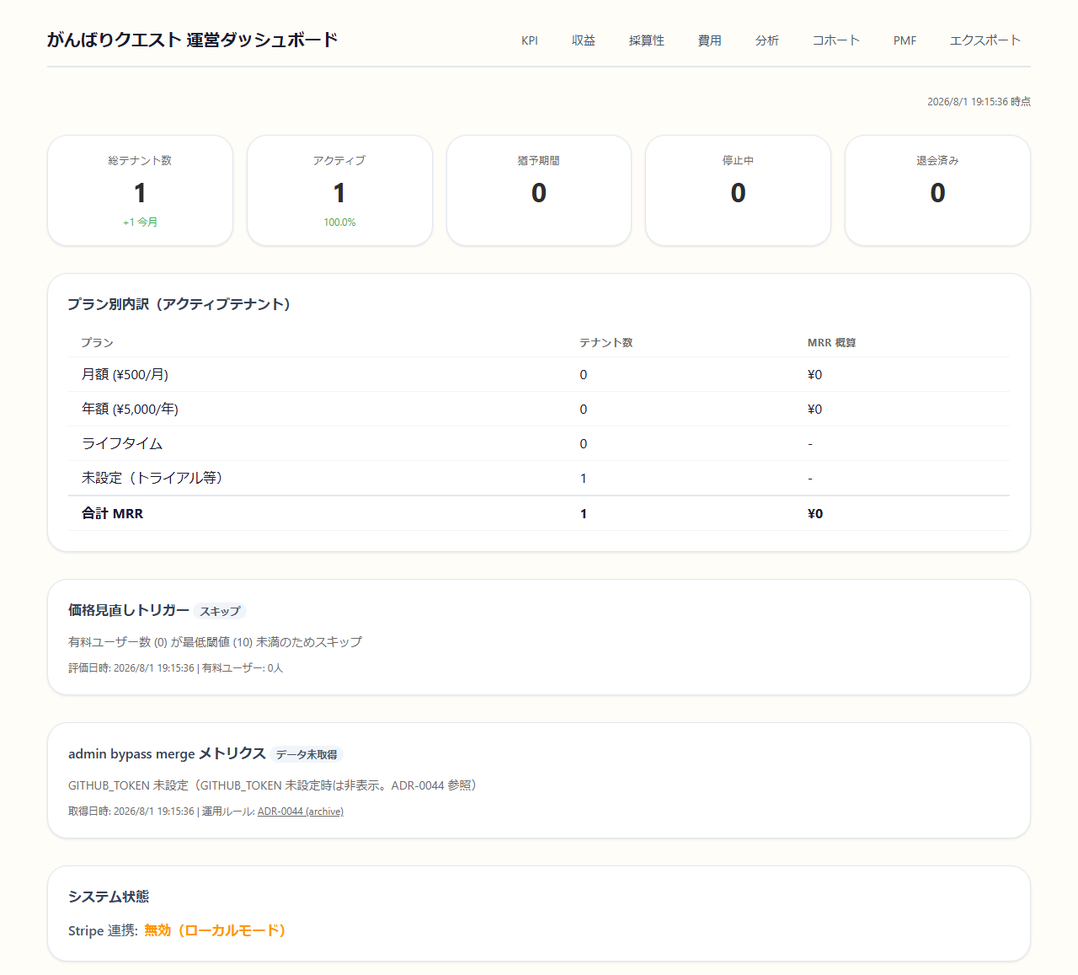
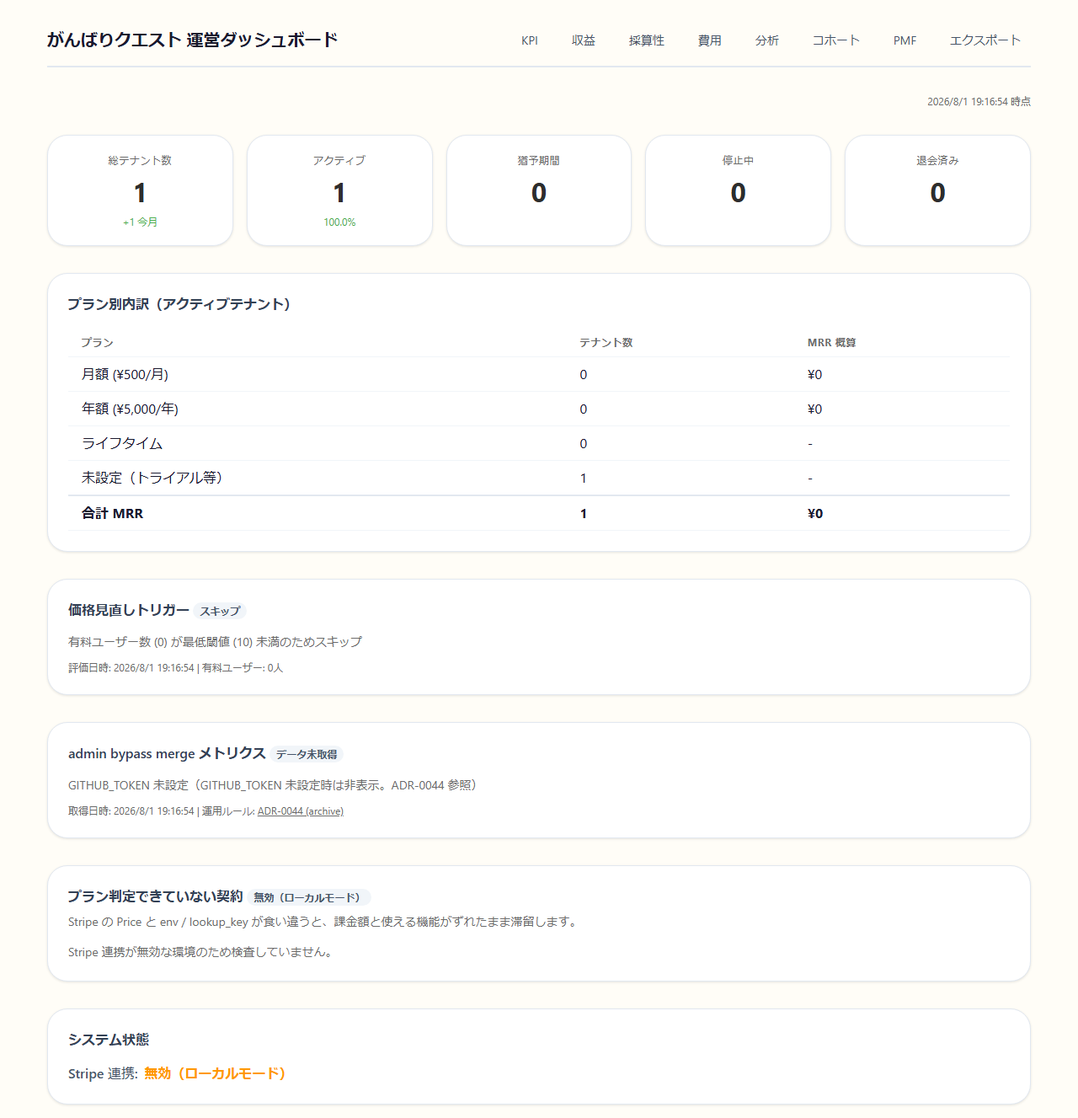
screenshots: PR #4188 (2026-08-01)

diff --git a/pr-4188/ops-desktop.dom.html b/pr-4188/ops-desktop.dom.html
@@ -4114,7 +4114,7 @@ h1, h2, h3, h4 {
  .svelte-1ujk8l7{}</style>
 	</head>
 	<body data-sveltekit-preload-data="hover">
-		<div style="display: contents"><!--[--><!--[0--><!--[--><!--[-1--><!--]--><!----> <!--[-1--><!--]--><!----> <!--[-1--><!--]--><!----> <!--[0--><!--[--><div class="ops-layout svelte-1jk8rqa"><header class="ops-header svelte-1jk8rqa"><h1 class="svelte-1jk8rqa">がんばりクエスト 運営ダッシュボード</h1> <nav class="svelte-1jk8rqa"><a href="/ops" class="svelte-1jk8rqa">KPI</a> <a href="/ops/revenue" class="svelte-1jk8rqa">収益</a> <a href="/ops/business" class="svelte-1jk8rqa">採算性</a> <a href="/ops/costs" class="svelte-1jk8rqa">費用</a> <a href="/ops/analytics" class="svelte-1jk8rqa">分析</a> <a href="/ops/cohort" class="svelte-1jk8rqa">コホート</a> <a href="/ops/pmf-survey" class="svelte-1jk8rqa">PMF</a> <a href="/ops/export" class="svelte-1jk8rqa">エクスポート</a></nav></header> <main class="ops-main svelte-1jk8rqa"><!--[-1--><!--[--><div class="flex flex-col gap-8 svelte-1ujk8l7"><div class="text-xs text-[var(--color-text-muted)] text-right svelte-1ujk8l7">2026/8/1 19:15:36 時点</div> <div class="grid grid-cols-[repeat(auto-fit,minmax(160px,1fr))] gap-4 svelte-1ujk8l7"><section class="rounded-[var(--card-radius)] overflow-hidden bg-[var(--card-bg)] shadow-[var(--card-shadow)] border border-[var(--color-border-default)] p-5 text-center"><!--[-1--><!--]--> <div><div class="ops-kpi-label svelte-1ujk8l7">総テナント数</div> <div class="text-[2rem] font-bold text-[var(--color-text)] svelte-1ujk8l7">1</div> <div class="text-xs text-[var(--color-success)] mt-1 svelte-1ujk8l7">+1 今月</div><!----></div> <!--[-1--><!--]--></section><!----> <section class="rounded-[var(--card-radius)] overflow-hidden bg-[var(--card-bg)] shadow-[var(--card-shadow)] border border-[var(--color-border-default)] p-5 text-center"><!--[-1--><!--]--> <div><div class="ops-kpi-label svelte-1ujk8l7">アクティブ</div> <div class="text-[2rem] font-bold text-[var(--color-text)] svelte-1ujk8l7">1</div> <div class="text-xs text-[var(--color-success)] mt-1 svelte-1ujk8l7">100.0%</div><!----></div> <!--[-1--><!--]--></section><!----> <section class="rounded-[var(--card-radius)] overflow-hidden bg-[var(--card-bg)] shadow-[var(--card-shadow)] border border-[var(--color-border-default)] p-5 text-center"><!--[-1--><!--]--> <div><div class="ops-kpi-label svelte-1ujk8l7">猶予期間</div> <div class="text-[2rem] font-bold text-[var(--color-text)] svelte-1ujk8l7">0</div><!----></div> <!--[-1--><!--]--></section><!----> <section class="rounded-[var(--card-radius)] overflow-hidden bg-[var(--card-bg)] shadow-[var(--card-shadow)] border border-[var(--color-border-default)] p-5 text-center"><!--[-1--><!--]--> <div><div class="ops-kpi-label svelte-1ujk8l7">停止中</div> <div class="text-[2rem] font-bold text-[var(--color-text)] svelte-1ujk8l7">0</div><!----></div> <!--[-1--><!--]--></section><!----> <section class="rounded-[var(--card-radius)] overflow-hidden bg-[var(--card-bg)] shadow-[var(--card-shadow)] border border-[var(--color-border-default)] p-5 text-center"><!--[-1--><!--]--> <div><div class="ops-kpi-label svelte-1ujk8l7">退会済み</div> <div class="text-[2rem] font-bold text-[var(--color-text)] svelte-1ujk8l7">0</div><!----></div> <!--[-1--><!--]--></section><!----></div> <section class="rounded-[var(--card-radius)] overflow-hidden bg-[var(--card-bg)] shadow-[var(--card-shadow)] border border-[var(--color-border-default)] "><!--[-1--><!--]--> <div class="p-6"><h2 class="text-base font-semibold m-0 mb-4 text-[var(--color-text-primary)] svelte-1ujk8l7">プラン別内訳（アクティブテナント）</h2> <table class="ops-table svelte-1ujk8l7"><thead class="svelte-1ujk8l7"><tr class="svelte-1ujk8l7"><th class="svelte-1ujk8l7">プラン</th><th class="svelte-1ujk8l7">テナント数</th><th class="svelte-1ujk8l7">MRR 概算</th></tr></thead><tbody class="svelte-1ujk8l7"><tr class="svelte-1ujk8l7"><td class="svelte-1ujk8l7">月額 (¥500/月)</td><td class="svelte-1ujk8l7">0</td><td class="svelte-1ujk8l7">¥0</td></tr><tr class="svelte-1ujk8l7"><td class="svelte-1ujk8l7">年額 (¥5,000/年)</td><td class="svelte-1ujk8l7">0</td><td class="svelte-1ujk8l7">¥0</td></tr><tr class="svelte-1ujk8l7"><td class="svelte-1ujk8l7">ライフタイム</td><td class="svelte-1ujk8l7">0</td><td class="svelte-1ujk8l7">-</td></tr><tr class="svelte-1ujk8l7"><td class="svelte-1ujk8l7">未設定（トライアル等）</td><td class="svelte-1ujk8l7">1</td><td class="svelte-1ujk8l7">-</td></tr><tr class="total-row svelte-1ujk8l7"><td class="svelte-1ujk8l7">合計 MRR</td><td class="svelte-1ujk8l7">1</td><td class="svelte-1ujk8l7">¥0</td></tr></tbody></table><!----></div> <!--[-1--><!--]--></section><!----> <section class="rounded-[var(--card-radius)] overflow-hidden bg-[var(--card-bg)] shadow-[var(--card-shadow)] border border-[var(--color-border-default)] "><!--[-1--><!--]--> <div class="p-6"><h2 class="text-base font-semibold m-0 mb-4 text-[var(--color-neutral-700)] svelte-1ujk8l7">価格見直しトリガー <!--[1--><span class="inline-flex items-center gap-1 rounded-[var(--badge-radius)] font-bold bg-gray-100 text-gray-600 text-xs px-2 py-0.5 "><!---->スキップ<!----></span><!----><!--]--></h2> <!--[0--><p class="text-sm text-[var(--color-text-muted)] svelte-1ujk8l7">有料ユーザー数 (0) が最低閾値 (10) 未満のためスキップ</p><!--]--> <div class="text-xs text-[var(--color-text-muted)] mt-3 svelte-1ujk8l7">評価日時: 2026/8/1 19:15:36 | 有料ユーザー: 0人</div><!----></div> <!--[-1--><!--]--></section><!----> <section class="rounded-[var(--card-radius)] overflow-hidden bg-[var(--card-bg)] shadow-[var(--card-shadow)] border border-[var(--color-border-default)] "><!--[-1--><!--]--> <div class="p-6"><h2 class="text-base font-semibold m-0 mb-4 text-[var(--color-neutral-700)] svelte-1ujk8l7">admin bypass merge メトリクス <!--[-1--><span class="inline-flex items-center gap-1 rounded-[var(--badge-radius)] font-bold bg-gray-100 text-gray-600 text-xs px-2 py-0.5 "><!---->データ未取得<!----></span><!----><!--]--></h2> <!--[0--><p class="text-sm text-[var(--color-text-muted)] svelte-1ujk8l7">GITHUB_TOKEN 未設定（GITHUB_TOKEN 未設定時は非表示。ADR-0044 参照）</p><!--]--> <div class="text-xs text-[var(--color-text-muted)] mt-3 svelte-1ujk8l7">取得日時: 2026/8/1 19:15:36 | 運用ルール: <a href="https://github.com/Takenori-Kusaka/ganbari-quest/blob/main/docs/decisions/archive/0044-admin-bypass-evidence.md" class="underline svelte-1ujk8l7">ADR-0044 (archive)</a></div><!----></div> <!--[-1--><!--]--></section><!----> <section class="rounded-[var(--card-radius)] overflow-hidden bg-[var(--card-bg)] shadow-[var(--card-shadow)] border border-[var(--color-border-default)] "><!--[-1--><!--]--> <div class="p-6"><h2 class="text-base font-semibold m-0 mb-4 text-[var(--color-text-primary)] svelte-1ujk8l7">システム状態</h2> <div class="flex flex-col gap-2 svelte-1ujk8l7"><div class="flex gap-2 items-center svelte-1ujk8l7"><span class="font-medium text-[var(--color-text-secondary)] svelte-1ujk8l7">Stripe 連携:</span> <span class="font-semibold text-[var(--color-warning)] svelte-1ujk8l7">無効（ローカルモード）</span></div></div><!----></div> <!--[-1--><!--]--></section><!----></div><!--]--><!--]--><!----></main></div><!--]--><!--]--><!----> <!--[-1--><!--]--><!--]--><!--]--> <!--[-1--><!--]--><!--]-->
+		<div style="display: contents"><!--[--><!--[0--><!--[--><!--[-1--><!--]--><!----> <!--[-1--><!--]--><!----> <!--[-1--><!--]--><!----> <!--[0--><!--[--><div class="ops-layout svelte-1jk8rqa"><header class="ops-header svelte-1jk8rqa"><h1 class="svelte-1jk8rqa">がんばりクエスト 運営ダッシュボード</h1> <nav class="svelte-1jk8rqa"><a href="/ops" class="svelte-1jk8rqa">KPI</a> <a href="/ops/revenue" class="svelte-1jk8rqa">収益</a> <a href="/ops/business" class="svelte-1jk8rqa">採算性</a> <a href="/ops/costs" class="svelte-1jk8rqa">費用</a> <a href="/ops/analytics" class="svelte-1jk8rqa">分析</a> <a href="/ops/cohort" class="svelte-1jk8rqa">コホート</a> <a href="/ops/pmf-survey" class="svelte-1jk8rqa">PMF</a> <a href="/ops/export" class="svelte-1jk8rqa">エクスポート</a></nav></header> <main class="ops-main svelte-1jk8rqa"><!--[-1--><!--[--><div class="flex flex-col gap-8 svelte-1ujk8l7"><div class="text-xs text-[var(--color-text-muted)] text-right svelte-1ujk8l7">2026/8/1 19:16:54 時点</div> <div class="grid grid-cols-[repeat(auto-fit,minmax(160px,1fr))] gap-4 svelte-1ujk8l7"><section class="rounded-[var(--card-radius)] overflow-hidden bg-[var(--card-bg)] shadow-[var(--card-shadow)] border border-[var(--color-border-default)] p-5 text-center"><!--[-1--><!--]--> <div><div class="ops-kpi-label svelte-1ujk8l7">総テナント数</div> <div class="text-[2rem] font-bold text-[var(--color-text)] svelte-1ujk8l7">1</div> <div class="text-xs text-[var(--color-success)] mt-1 svelte-1ujk8l7">+1 今月</div><!----></div> <!--[-1--><!--]--></section><!----> <section class="rounded-[var(--card-radius)] overflow-hidden bg-[var(--card-bg)] shadow-[var(--card-shadow)] border border-[var(--color-border-default)] p-5 text-center"><!--[-1--><!--]--> <div><div class="ops-kpi-label svelte-1ujk8l7">アクティブ</div> <div class="text-[2rem] font-bold text-[var(--color-text)] svelte-1ujk8l7">1</div> <div class="text-xs text-[var(--color-success)] mt-1 svelte-1ujk8l7">100.0%</div><!----></div> <!--[-1--><!--]--></section><!----> <section class="rounded-[var(--card-radius)] overflow-hidden bg-[var(--card-bg)] shadow-[var(--card-shadow)] border border-[var(--color-border-default)] p-5 text-center"><!--[-1--><!--]--> <div><div class="ops-kpi-label svelte-1ujk8l7">猶予期間</div> <div class="text-[2rem] font-bold text-[var(--color-text)] svelte-1ujk8l7">0</div><!----></div> <!--[-1--><!--]--></section><!----> <section class="rounded-[var(--card-radius)] overflow-hidden bg-[var(--card-bg)] shadow-[var(--card-shadow)] border border-[var(--color-border-default)] p-5 text-center"><!--[-1--><!--]--> <div><div class="ops-kpi-label svelte-1ujk8l7">停止中</div> <div class="text-[2rem] font-bold text-[var(--color-text)] svelte-1ujk8l7">0</div><!----></div> <!--[-1--><!--]--></section><!----> <section class="rounded-[var(--card-radius)] overflow-hidden bg-[var(--card-bg)] shadow-[var(--card-shadow)] border border-[var(--color-border-default)] p-5 text-center"><!--[-1--><!--]--> <div><div class="ops-kpi-label svelte-1ujk8l7">退会済み</div> <div class="text-[2rem] font-bold text-[var(--color-text)] svelte-1ujk8l7">0</div><!----></div> <!--[-1--><!--]--></section><!----></div> <section class="rounded-[var(--card-radius)] overflow-hidden bg-[var(--card-bg)] shadow-[var(--card-shadow)] border border-[var(--color-border-default)] "><!--[-1--><!--]--> <div class="p-6"><h2 class="text-base font-semibold m-0 mb-4 text-[var(--color-text-primary)] svelte-1ujk8l7">プラン別内訳（アクティブテナント）</h2> <table class="ops-table svelte-1ujk8l7"><thead class="svelte-1ujk8l7"><tr class="svelte-1ujk8l7"><th class="svelte-1ujk8l7">プラン</th><th class="svelte-1ujk8l7">テナント数</th><th class="svelte-1ujk8l7">MRR 概算</th></tr></thead><tbody class="svelte-1ujk8l7"><tr class="svelte-1ujk8l7"><td class="svelte-1ujk8l7">月額 (¥500/月)</td><td class="svelte-1ujk8l7">0</td><td class="svelte-1ujk8l7">¥0</td></tr><tr class="svelte-1ujk8l7"><td class="svelte-1ujk8l7">年額 (¥5,000/年)</td><td class="svelte-1ujk8l7">0</td><td class="svelte-1ujk8l7">¥0</td></tr><tr class="svelte-1ujk8l7"><td class="svelte-1ujk8l7">ライフタイム</td><td class="svelte-1ujk8l7">0</td><td class="svelte-1ujk8l7">-</td></tr><tr class="svelte-1ujk8l7"><td class="svelte-1ujk8l7">未設定（トライアル等）</td><td class="svelte-1ujk8l7">1</td><td class="svelte-1ujk8l7">-</td></tr><tr class="total-row svelte-1ujk8l7"><td class="svelte-1ujk8l7">合計 MRR</td><td class="svelte-1ujk8l7">1</td><td class="svelte-1ujk8l7">¥0</td></tr></tbody></table><!----></div> <!--[-1--><!--]--></section><!----> <section class="rounded-[var(--card-radius)] overflow-hidden bg-[var(--card-bg)] shadow-[var(--card-shadow)] border border-[var(--color-border-default)] "><!--[-1--><!--]--> <div class="p-6"><h2 class="text-base font-semibold m-0 mb-4 text-[var(--color-neutral-700)] svelte-1ujk8l7">価格見直しトリガー <!--[1--><span class="inline-flex items-center gap-1 rounded-[var(--badge-radius)] font-bold bg-gray-100 text-gray-600 text-xs px-2 py-0.5 "><!---->スキップ<!----></span><!----><!--]--></h2> <!--[0--><p class="text-sm text-[var(--color-text-muted)] svelte-1ujk8l7">有料ユーザー数 (0) が最低閾値 (10) 未満のためスキップ</p><!--]--> <div class="text-xs text-[var(--color-text-muted)] mt-3 svelte-1ujk8l7">評価日時: 2026/8/1 19:16:54 | 有料ユーザー: 0人</div><!----></div> <!--[-1--><!--]--></section><!----> <section class="rounded-[var(--card-radius)] overflow-hidden bg-[var(--card-bg)] shadow-[var(--card-shadow)] border border-[var(--color-border-default)] "><!--[-1--><!--]--> <div class="p-6"><h2 class="text-base font-semibold m-0 mb-4 text-[var(--color-neutral-700)] svelte-1ujk8l7">admin bypass merge メトリクス <!--[-1--><span class="inline-flex items-center gap-1 rounded-[var(--badge-radius)] font-bold bg-gray-100 text-gray-600 text-xs px-2 py-0.5 "><!---->データ未取得<!----></span><!----><!--]--></h2> <!--[0--><p class="text-sm text-[var(--color-text-muted)] svelte-1ujk8l7">GITHUB_TOKEN 未設定（GITHUB_TOKEN 未設定時は非表示。ADR-0044 参照）</p><!--]--> <div class="text-xs text-[var(--color-text-muted)] mt-3 svelte-1ujk8l7">取得日時: 2026/8/1 19:16:54 | 運用ルール: <a href="https://github.com/Takenori-Kusaka/ganbari-quest/blob/main/docs/decisions/archive/0044-admin-bypass-evidence.md" class="underline svelte-1ujk8l7">ADR-0044 (archive)</a></div><!----></div> <!--[-1--><!--]--></section><!----> <section class="rounded-[var(--card-radius)] overflow-hidden bg-[var(--card-bg)] shadow-[var(--card-shadow)] border border-[var(--color-border-default)] "><!--[-1--><!--]--> <div class="p-6"><h2 class="text-base font-semibold m-0 mb-2 text-[var(--color-text-primary)] svelte-1ujk8l7">プラン判定できていない契約 <!--[0--><span class="inline-flex items-center gap-1 rounded-[var(--badge-radius)] font-bold bg-gray-100 text-gray-600 text-xs px-2 py-0.5 "><!---->無効（ローカルモード）<!----></span><!----><!--]--></h2> <p class="text-sm text-[var(--color-text-muted)] mb-4 svelte-1ujk8l7">Stripe の Price と env / lookup_key が食い違うと、課金額と使える機能がずれたまま滞留します。</p> <!--[0--><p class="text-sm text-[var(--color-text-muted)] svelte-1ujk8l7">Stripe 連携が無効な環境のため検査していません。</p><!--]--><!----></div> <!--[-1--><!--]--></section><!----> <section class="rounded-[var(--card-radius)] overflow-hidden bg-[var(--card-bg)] shadow-[var(--card-shadow)] border border-[var(--color-border-default)] "><!--[-1--><!--]--> <div class="p-6"><h2 class="text-base font-semibold m-0 mb-4 text-[var(--color-text-primary)] svelte-1ujk8l7">システム状態</h2> <div class="flex flex-col gap-2 svelte-1ujk8l7"><div class="flex gap-2 items-center svelte-1ujk8l7"><span class="font-medium text-[var(--color-text-secondary)] svelte-1ujk8l7">Stripe 連携:</span> <span class="font-semibold text-[var(--color-warning)] svelte-1ujk8l7">無効（ローカルモード）</span></div></div><!----></div> <!--[-1--><!--]--></section><!----></div><!--]--><!--]--><!----></main></div><!--]--><!--]--><!----> <!--[-1--><!--]--><!--]--><!--]--> <!--[-1--><!--]--><!--]-->
 			
 			<script>
 				{
@@ -4126,12 +4126,12 @@ h1, h2, h3, h4 {
 					const element = document.currentScript.parentElement;
 
 					Promise.all([
-						import("/@fs/E:/Github/ganbari-quest-dev/node_modules/@sveltejs/kit/src/runtime/client/entry.js"),
-						import("/@fs/E:/Github/ganbari-quest-dev/.claude/worktrees/agent-ac2e6176bcda95865/.svelte-kit/generated/client/app.js")
+						import("/@fs/E:/Github/ganbari-quest-dev/.claude/worktrees/agent-a391ca46a7981a368/node_modules/@sveltejs/kit/src/runtime/client/entry.js"),
+						import("/@fs/E:/Github/ganbari-quest-dev/.claude/worktrees/agent-a391ca46a7981a368/.svelte-kit/generated/client/app.js")
 					]).then(([kit, app]) => {
 						kit.start(app, element, {
 							node_ids: [0, 7, 59],
-							data: [{type:"data",data:{role:"owner",requestId:"528987b5-e698-4627-a78b-4a14912cf4be",isDemo:false},uses:{}},{type:"data",data:{},uses:{}},{type:"data",data:{kpi:{tenantStats:{total:1,active:1,gracePeriod:0,suspended:0,terminated:0,planBreakdown:{monthly:0,yearly:0,familyMonthly:0,familyYearly:0,lifetime:0,noPlan:1},newThisMonth:1},activeRate:1,stripeEnabled:false,fetchedAt:"2026-08-01T10:15:36.640Z"},triggerReport:{month:"2026-08",evaluatedAt:"2026-08-01T10:15:36.639Z",triggers:[],firedTriggers:[],skipped:true,skipReason:"有料ユーザー数 (0) が最低閾値 (10) 未満のためスキップ",paidUserCount:0},adminBypass:{fetchedAt:"2026-08-01T10:15:36.639Z",lookbackMonths:3,available:false,reason:"GITHUB_TOKEN 未設定",monthly:[],totalAdminBypass:0,totalEvidenceMissing:0}},uses:{}}],
+							data: [{type:"data",data:{role:"owner",requestId:"c4f16c80-2751-4050-b6f2-95dd9391bd3b",isDemo:false},uses:{}},{type:"data",data:{},uses:{}},{type:"data",data:{kpi:{tenantStats:{total:1,active:1,gracePeriod:0,suspended:0,terminated:0,planBreakdown:{monthly:0,yearly:0,familyMonthly:0,familyYearly:0,lifetime:0,noPlan:1},newThisMonth:1},activeRate:1,stripeEnabled:false,fetchedAt:"2026-08-01T10:16:54.991Z"},triggerReport:{month:"2026-08",evaluatedAt:"2026-08-01T10:16:54.991Z",triggers:[],firedTriggers:[],skipped:true,skipReason:"有料ユーザー数 (0) が最低閾値 (10) 未満のためスキップ",paidUserCount:0},adminBypass:{fetchedAt:"2026-08-01T10:16:54.991Z",lookbackMonths:3,available:false,reason:"GITHUB_TOKEN 未設定",monthly:[],totalAdminBypass:0,totalEvidenceMissing:0},planDrift:{skipped:"stripe-disabled",checked:0,truncated:false,unresolved:[],error:null}},uses:{}}],
 							form: null,
 							error: null
 						});

diff --git a/pr-4188/ops-mobile.dom.html b/pr-4188/ops-mobile.dom.html
@@ -4114,7 +4114,7 @@ h1, h2, h3, h4 {
  .svelte-1ujk8l7{}</style>
 	</head>
 	<body data-sveltekit-preload-data="hover">
-		<div style="display: contents"><!--[--><!--[0--><!--[--><!--[-1--><!--]--><!----> <!--[-1--><!--]--><!----> <!--[-1--><!--]--><!----> <!--[0--><!--[--><div class="ops-layout svelte-1jk8rqa"><header class="ops-header svelte-1jk8rqa"><h1 class="svelte-1jk8rqa">がんばりクエスト 運営ダッシュボード</h1> <nav class="svelte-1jk8rqa"><a href="/ops" class="svelte-1jk8rqa">KPI</a> <a href="/ops/revenue" class="svelte-1jk8rqa">収益</a> <a href="/ops/business" class="svelte-1jk8rqa">採算性</a> <a href="/ops/costs" class="svelte-1jk8rqa">費用</a> <a href="/ops/analytics" class="svelte-1jk8rqa">分析</a> <a href="/ops/cohort" class="svelte-1jk8rqa">コホート</a> <a href="/ops/pmf-survey" class="svelte-1jk8rqa">PMF</a> <a href="/ops/export" class="svelte-1jk8rqa">エクスポート</a></nav></header> <main class="ops-main svelte-1jk8rqa"><!--[-1--><!--[--><div class="flex flex-col gap-8 svelte-1ujk8l7"><div class="text-xs text-[var(--color-text-muted)] text-right svelte-1ujk8l7">2026/8/1 19:15:32 時点</div> <div class="grid grid-cols-[repeat(auto-fit,minmax(160px,1fr))] gap-4 svelte-1ujk8l7"><section class="rounded-[var(--card-radius)] overflow-hidden bg-[var(--card-bg)] shadow-[var(--card-shadow)] border border-[var(--color-border-default)] p-5 text-center"><!--[-1--><!--]--> <div><div class="ops-kpi-label svelte-1ujk8l7">総テナント数</div> <div class="text-[2rem] font-bold text-[var(--color-text)] svelte-1ujk8l7">1</div> <div class="text-xs text-[var(--color-success)] mt-1 svelte-1ujk8l7">+1 今月</div><!----></div> <!--[-1--><!--]--></section><!----> <section class="rounded-[var(--card-radius)] overflow-hidden bg-[var(--card-bg)] shadow-[var(--card-shadow)] border border-[var(--color-border-default)] p-5 text-center"><!--[-1--><!--]--> <div><div class="ops-kpi-label svelte-1ujk8l7">アクティブ</div> <div class="text-[2rem] font-bold text-[var(--color-text)] svelte-1ujk8l7">1</div> <div class="text-xs text-[var(--color-success)] mt-1 svelte-1ujk8l7">100.0%</div><!----></div> <!--[-1--><!--]--></section><!----> <section class="rounded-[var(--card-radius)] overflow-hidden bg-[var(--card-bg)] shadow-[var(--card-shadow)] border border-[var(--color-border-default)] p-5 text-center"><!--[-1--><!--]--> <div><div class="ops-kpi-label svelte-1ujk8l7">猶予期間</div> <div class="text-[2rem] font-bold text-[var(--color-text)] svelte-1ujk8l7">0</div><!----></div> <!--[-1--><!--]--></section><!----> <section class="rounded-[var(--card-radius)] overflow-hidden bg-[var(--card-bg)] shadow-[var(--card-shadow)] border border-[var(--color-border-default)] p-5 text-center"><!--[-1--><!--]--> <div><div class="ops-kpi-label svelte-1ujk8l7">停止中</div> <div class="text-[2rem] font-bold text-[var(--color-text)] svelte-1ujk8l7">0</div><!----></div> <!--[-1--><!--]--></section><!----> <section class="rounded-[var(--card-radius)] overflow-hidden bg-[var(--card-bg)] shadow-[var(--card-shadow)] border border-[var(--color-border-default)] p-5 text-center"><!--[-1--><!--]--> <div><div class="ops-kpi-label svelte-1ujk8l7">退会済み</div> <div class="text-[2rem] font-bold text-[var(--color-text)] svelte-1ujk8l7">0</div><!----></div> <!--[-1--><!--]--></section><!----></div> <section class="rounded-[var(--card-radius)] overflow-hidden bg-[var(--card-bg)] shadow-[var(--card-shadow)] border border-[var(--color-border-default)] "><!--[-1--><!--]--> <div class="p-6"><h2 class="text-base font-semibold m-0 mb-4 text-[var(--color-text-primary)] svelte-1ujk8l7">プラン別内訳（アクティブテナント）</h2> <table class="ops-table svelte-1ujk8l7"><thead class="svelte-1ujk8l7"><tr class="svelte-1ujk8l7"><th class="svelte-1ujk8l7">プラン</th><th class="svelte-1ujk8l7">テナント数</th><th class="svelte-1ujk8l7">MRR 概算</th></tr></thead><tbody class="svelte-1ujk8l7"><tr class="svelte-1ujk8l7"><td class="svelte-1ujk8l7">月額 (¥500/月)</td><td class="svelte-1ujk8l7">0</td><td class="svelte-1ujk8l7">¥0</td></tr><tr class="svelte-1ujk8l7"><td class="svelte-1ujk8l7">年額 (¥5,000/年)</td><td class="svelte-1ujk8l7">0</td><td class="svelte-1ujk8l7">¥0</td></tr><tr class="svelte-1ujk8l7"><td class="svelte-1ujk8l7">ライフタイム</td><td class="svelte-1ujk8l7">0</td><td class="svelte-1ujk8l7">-</td></tr><tr class="svelte-1ujk8l7"><td class="svelte-1ujk8l7">未設定（トライアル等）</td><td class="svelte-1ujk8l7">1</td><td class="svelte-1ujk8l7">-</td></tr><tr class="total-row svelte-1ujk8l7"><td class="svelte-1ujk8l7">合計 MRR</td><td class="svelte-1ujk8l7">1</td><td class="svelte-1ujk8l7">¥0</td></tr></tbody></table><!----></div> <!--[-1--><!--]--></section><!----> <section class="rounded-[var(--card-radius)] overflow-hidden bg-[var(--card-bg)] shadow-[var(--card-shadow)] border border-[var(--color-border-default)] "><!--[-1--><!--]--> <div class="p-6"><h2 class="text-base font-semibold m-0 mb-4 text-[var(--color-neutral-700)] svelte-1ujk8l7">価格見直しトリガー <!--[1--><span class="inline-flex items-center gap-1 rounded-[var(--badge-radius)] font-bold bg-gray-100 text-gray-600 text-xs px-2 py-0.5 "><!---->スキップ<!----></span><!----><!--]--></h2> <!--[0--><p class="text-sm text-[var(--color-text-muted)] svelte-1ujk8l7">有料ユーザー数 (0) が最低閾値 (10) 未満のためスキップ</p><!--]--> <div class="text-xs text-[var(--color-text-muted)] mt-3 svelte-1ujk8l7">評価日時: 2026/8/1 19:15:32 | 有料ユーザー: 0人</div><!----></div> <!--[-1--><!--]--></section><!----> <section class="rounded-[var(--card-radius)] overflow-hidden bg-[var(--card-bg)] shadow-[var(--card-shadow)] border border-[var(--color-border-default)] "><!--[-1--><!--]--> <div class="p-6"><h2 class="text-base font-semibold m-0 mb-4 text-[var(--color-neutral-700)] svelte-1ujk8l7">admin bypass merge メトリクス <!--[-1--><span class="inline-flex items-center gap-1 rounded-[var(--badge-radius)] font-bold bg-gray-100 text-gray-600 text-xs px-2 py-0.5 "><!---->データ未取得<!----></span><!----><!--]--></h2> <!--[0--><p class="text-sm text-[var(--color-text-muted)] svelte-1ujk8l7">GITHUB_TOKEN 未設定（GITHUB_TOKEN 未設定時は非表示。ADR-0044 参照）</p><!--]--> <div class="text-xs text-[var(--color-text-muted)] mt-3 svelte-1ujk8l7">取得日時: 2026/8/1 19:15:32 | 運用ルール: <a href="https://github.com/Takenori-Kusaka/ganbari-quest/blob/main/docs/decisions/archive/0044-admin-bypass-evidence.md" class="underline svelte-1ujk8l7">ADR-0044 (archive)</a></div><!----></div> <!--[-1--><!--]--></section><!----> <section class="rounded-[var(--card-radius)] overflow-hidden bg-[var(--card-bg)] shadow-[var(--card-shadow)] border border-[var(--color-border-default)] "><!--[-1--><!--]--> <div class="p-6"><h2 class="text-base font-semibold m-0 mb-4 text-[var(--color-text-primary)] svelte-1ujk8l7">システム状態</h2> <div class="flex flex-col gap-2 svelte-1ujk8l7"><div class="flex gap-2 items-center svelte-1ujk8l7"><span class="font-medium text-[var(--color-text-secondary)] svelte-1ujk8l7">Stripe 連携:</span> <span class="font-semibold text-[var(--color-warning)] svelte-1ujk8l7">無効（ローカルモード）</span></div></div><!----></div> <!--[-1--><!--]--></section><!----></div><!--]--><!--]--><!----></main></div><!--]--><!--]--><!----> <!--[-1--><!--]--><!--]--><!--]--> <!--[-1--><!--]--><!--]-->
+		<div style="display: contents"><!--[--><!--[0--><!--[--><!--[-1--><!--]--><!----> <!--[-1--><!--]--><!----> <!--[-1--><!--]--><!----> <!--[0--><!--[--><div class="ops-layout svelte-1jk8rqa"><header class="ops-header svelte-1jk8rqa"><h1 class="svelte-1jk8rqa">がんばりクエスト 運営ダッシュボード</h1> <nav class="svelte-1jk8rqa"><a href="/ops" class="svelte-1jk8rqa">KPI</a> <a href="/ops/revenue" class="svelte-1jk8rqa">収益</a> <a href="/ops/business" class="svelte-1jk8rqa">採算性</a> <a href="/ops/costs" class="svelte-1jk8rqa">費用</a> <a href="/ops/analytics" class="svelte-1jk8rqa">分析</a> <a href="/ops/cohort" class="svelte-1jk8rqa">コホート</a> <a href="/ops/pmf-survey" class="svelte-1jk8rqa">PMF</a> <a href="/ops/export" class="svelte-1jk8rqa">エクスポート</a></nav></header> <main class="ops-main svelte-1jk8rqa"><!--[-1--><!--[--><div class="flex flex-col gap-8 svelte-1ujk8l7"><div class="text-xs text-[var(--color-text-muted)] text-right svelte-1ujk8l7">2026/8/1 19:16:52 時点</div> <div class="grid grid-cols-[repeat(auto-fit,minmax(160px,1fr))] gap-4 svelte-1ujk8l7"><section class="rounded-[var(--card-radius)] overflow-hidden bg-[var(--card-bg)] shadow-[var(--card-shadow)] border border-[var(--color-border-default)] p-5 text-center"><!--[-1--><!--]--> <div><div class="ops-kpi-label svelte-1ujk8l7">総テナント数</div> <div class="text-[2rem] font-bold text-[var(--color-text)] svelte-1ujk8l7">1</div> <div class="text-xs text-[var(--color-success)] mt-1 svelte-1ujk8l7">+1 今月</div><!----></div> <!--[-1--><!--]--></section><!----> <section class="rounded-[var(--card-radius)] overflow-hidden bg-[var(--card-bg)] shadow-[var(--card-shadow)] border border-[var(--color-border-default)] p-5 text-center"><!--[-1--><!--]--> <div><div class="ops-kpi-label svelte-1ujk8l7">アクティブ</div> <div class="text-[2rem] font-bold text-[var(--color-text)] svelte-1ujk8l7">1</div> <div class="text-xs text-[var(--color-success)] mt-1 svelte-1ujk8l7">100.0%</div><!----></div> <!--[-1--><!--]--></section><!----> <section class="rounded-[var(--card-radius)] overflow-hidden bg-[var(--card-bg)] shadow-[var(--card-shadow)] border border-[var(--color-border-default)] p-5 text-center"><!--[-1--><!--]--> <div><div class="ops-kpi-label svelte-1ujk8l7">猶予期間</div> <div class="text-[2rem] font-bold text-[var(--color-text)] svelte-1ujk8l7">0</div><!----></div> <!--[-1--><!--]--></section><!----> <section class="rounded-[var(--card-radius)] overflow-hidden bg-[var(--card-bg)] shadow-[var(--card-shadow)] border border-[var(--color-border-default)] p-5 text-center"><!--[-1--><!--]--> <div><div class="ops-kpi-label svelte-1ujk8l7">停止中</div> <div class="text-[2rem] font-bold text-[var(--color-text)] svelte-1ujk8l7">0</div><!----></div> <!--[-1--><!--]--></section><!----> <section class="rounded-[var(--card-radius)] overflow-hidden bg-[var(--card-bg)] shadow-[var(--card-shadow)] border border-[var(--color-border-default)] p-5 text-center"><!--[-1--><!--]--> <div><div class="ops-kpi-label svelte-1ujk8l7">退会済み</div> <div class="text-[2rem] font-bold text-[var(--color-text)] svelte-1ujk8l7">0</div><!----></div> <!--[-1--><!--]--></section><!----></div> <section class="rounded-[var(--card-radius)] overflow-hidden bg-[var(--card-bg)] shadow-[var(--card-shadow)] border border-[var(--color-border-default)] "><!--[-1--><!--]--> <div class="p-6"><h2 class="text-base font-semibold m-0 mb-4 text-[var(--color-text-primary)] svelte-1ujk8l7">プラン別内訳（アクティブテナント）</h2> <table class="ops-table svelte-1ujk8l7"><thead class="svelte-1ujk8l7"><tr class="svelte-1ujk8l7"><th class="svelte-1ujk8l7">プラン</th><th class="svelte-1ujk8l7">テナント数</th><th class="svelte-1ujk8l7">MRR 概算</th></tr></thead><tbody class="svelte-1ujk8l7"><tr class="svelte-1ujk8l7"><td class="svelte-1ujk8l7">月額 (¥500/月)</td><td class="svelte-1ujk8l7">0</td><td class="svelte-1ujk8l7">¥0</td></tr><tr class="svelte-1ujk8l7"><td class="svelte-1ujk8l7">年額 (¥5,000/年)</td><td class="svelte-1ujk8l7">0</td><td class="svelte-1ujk8l7">¥0</td></tr><tr class="svelte-1ujk8l7"><td class="svelte-1ujk8l7">ライフタイム</td><td class="svelte-1ujk8l7">0</td><td class="svelte-1ujk8l7">-</td></tr><tr class="svelte-1ujk8l7"><td class="svelte-1ujk8l7">未設定（トライアル等）</td><td class="svelte-1ujk8l7">1</td><td class="svelte-1ujk8l7">-</td></tr><tr class="total-row svelte-1ujk8l7"><td class="svelte-1ujk8l7">合計 MRR</td><td class="svelte-1ujk8l7">1</td><td class="svelte-1ujk8l7">¥0</td></tr></tbody></table><!----></div> <!--[-1--><!--]--></section><!----> <section class="rounded-[var(--card-radius)] overflow-hidden bg-[var(--card-bg)] shadow-[var(--card-shadow)] border border-[var(--color-border-default)] "><!--[-1--><!--]--> <div class="p-6"><h2 class="text-base font-semibold m-0 mb-4 text-[var(--color-neutral-700)] svelte-1ujk8l7">価格見直しトリガー <!--[1--><span class="inline-flex items-center gap-1 rounded-[var(--badge-radius)] font-bold bg-gray-100 text-gray-600 text-xs px-2 py-0.5 "><!---->スキップ<!----></span><!----><!--]--></h2> <!--[0--><p class="text-sm text-[var(--color-text-muted)] svelte-1ujk8l7">有料ユーザー数 (0) が最低閾値 (10) 未満のためスキップ</p><!--]--> <div class="text-xs text-[var(--color-text-muted)] mt-3 svelte-1ujk8l7">評価日時: 2026/8/1 19:16:52 | 有料ユーザー: 0人</div><!----></div> <!--[-1--><!--]--></section><!----> <section class="rounded-[var(--card-radius)] overflow-hidden bg-[var(--card-bg)] shadow-[var(--card-shadow)] border border-[var(--color-border-default)] "><!--[-1--><!--]--> <div class="p-6"><h2 class="text-base font-semibold m-0 mb-4 text-[var(--color-neutral-700)] svelte-1ujk8l7">admin bypass merge メトリクス <!--[-1--><span class="inline-flex items-center gap-1 rounded-[var(--badge-radius)] font-bold bg-gray-100 text-gray-600 text-xs px-2 py-0.5 "><!---->データ未取得<!----></span><!----><!--]--></h2> <!--[0--><p class="text-sm text-[var(--color-text-muted)] svelte-1ujk8l7">GITHUB_TOKEN 未設定（GITHUB_TOKEN 未設定時は非表示。ADR-0044 参照）</p><!--]--> <div class="text-xs text-[var(--color-text-muted)] mt-3 svelte-1ujk8l7">取得日時: 2026/8/1 19:16:52 | 運用ルール: <a href="https://github.com/Takenori-Kusaka/ganbari-quest/blob/main/docs/decisions/archive/0044-admin-bypass-evidence.md" class="underline svelte-1ujk8l7">ADR-0044 (archive)</a></div><!----></div> <!--[-1--><!--]--></section><!----> <section class="rounded-[var(--card-radius)] overflow-hidden bg-[var(--card-bg)] shadow-[var(--card-shadow)] border border-[var(--color-border-default)] "><!--[-1--><!--]--> <div class="p-6"><h2 class="text-base font-semibold m-0 mb-2 text-[var(--color-text-primary)] svelte-1ujk8l7">プラン判定できていない契約 <!--[0--><span class="inline-flex items-center gap-1 rounded-[var(--badge-radius)] font-bold bg-gray-100 text-gray-600 text-xs px-2 py-0.5 "><!---->無効（ローカルモード）<!----></span><!----><!--]--></h2> <p class="text-sm text-[var(--color-text-muted)] mb-4 svelte-1ujk8l7">Stripe の Price と env / lookup_key が食い違うと、課金額と使える機能がずれたまま滞留します。</p> <!--[0--><p class="text-sm text-[var(--color-text-muted)] svelte-1ujk8l7">Stripe 連携が無効な環境のため検査していません。</p><!--]--><!----></div> <!--[-1--><!--]--></section><!----> <section class="rounded-[var(--card-radius)] overflow-hidden bg-[var(--card-bg)] shadow-[var(--card-shadow)] border border-[var(--color-border-default)] "><!--[-1--><!--]--> <div class="p-6"><h2 class="text-base font-semibold m-0 mb-4 text-[var(--color-text-primary)] svelte-1ujk8l7">システム状態</h2> <div class="flex flex-col gap-2 svelte-1ujk8l7"><div class="flex gap-2 items-center svelte-1ujk8l7"><span class="font-medium text-[var(--color-text-secondary)] svelte-1ujk8l7">Stripe 連携:</span> <span class="font-semibold text-[var(--color-warning)] svelte-1ujk8l7">無効（ローカルモード）</span></div></div><!----></div> <!--[-1--><!--]--></section><!----></div><!--]--><!--]--><!----></main></div><!--]--><!--]--><!----> <!--[-1--><!--]--><!--]--><!--]--> <!--[-1--><!--]--><!--]-->
 			
 			<script>
 				{
@@ -4126,12 +4126,12 @@ h1, h2, h3, h4 {
 					const element = document.currentScript.parentElement;
 
 					Promise.all([
-						import("/@fs/E:/Github/ganbari-quest-dev/node_modules/@sveltejs/kit/src/runtime/client/entry.js"),
-						import("/@fs/E:/Github/ganbari-quest-dev/.claude/worktrees/agent-ac2e6176bcda95865/.svelte-kit/generated/client/app.js")
+						import("/@fs/E:/Github/ganbari-quest-dev/.claude/worktrees/agent-a391ca46a7981a368/node_modules/@sveltejs/kit/src/runtime/client/entry.js"),
+						import("/@fs/E:/Github/ganbari-quest-dev/.claude/worktrees/agent-a391ca46a7981a368/.svelte-kit/generated/client/app.js")
 					]).then(([kit, app]) => {
 						kit.start(app, element, {
 							node_ids: [0, 7, 59],
-							data: [{type:"data",data:{role:"owner",requestId:"26d10628-fff9-4094-b577-cc8f4236c0e5",isDemo:false},uses:{}},{type:"data",data:{},uses:{}},{type:"data",data:{kpi:{tenantStats:{total:1,active:1,gracePeriod:0,suspended:0,terminated:0,planBreakdown:{monthly:0,yearly:0,familyMonthly:0,familyYearly:0,lifetime:0,noPlan:1},newThisMonth:1},activeRate:1,stripeEnabled:false,fetchedAt:"2026-08-01T10:15:32.781Z"},triggerReport:{month:"2026-08",evaluatedAt:"2026-08-01T10:15:32.780Z",triggers:[],firedTriggers:[],skipped:true,skipReason:"有料ユーザー数 (0) が最低閾値 (10) 未満のためスキップ",paidUserCount:0},adminBypass:{fetchedAt:"2026-08-01T10:15:32.780Z",lookbackMonths:3,available:false,reason:"GITHUB_TOKEN 未設定",monthly:[],totalAdminBypass:0,totalEvidenceMissing:0}},uses:{}}],
+							data: [{type:"data",data:{role:"owner",requestId:"4af4b917-ff70-4b48-938b-c85b982177a4",isDemo:false},uses:{}},{type:"data",data:{},uses:{}},{type:"data",data:{kpi:{tenantStats:{total:1,active:1,gracePeriod:0,suspended:0,terminated:0,planBreakdown:{monthly:0,yearly:0,familyMonthly:0,familyYearly:0,lifetime:0,noPlan:1},newThisMonth:1},activeRate:1,stripeEnabled:false,fetchedAt:"2026-08-01T10:16:52.386Z"},triggerReport:{month:"2026-08",evaluatedAt:"2026-08-01T10:16:52.385Z",triggers:[],firedTriggers:[],skipped:true,skipReason:"有料ユーザー数 (0) が最低閾値 (10) 未満のためスキップ",paidUserCount:0},adminBypass:{fetchedAt:"2026-08-01T10:16:52.385Z",lookbackMonths:3,available:false,reason:"GITHUB_TOKEN 未設定",monthly:[],totalAdminBypass:0,totalEvidenceMissing:0},planDrift:{skipped:"stripe-disabled",checked:0,truncated:false,unresolved:[],error:null}},uses:{}}],
 							form: null,
 							error: null
 						});
